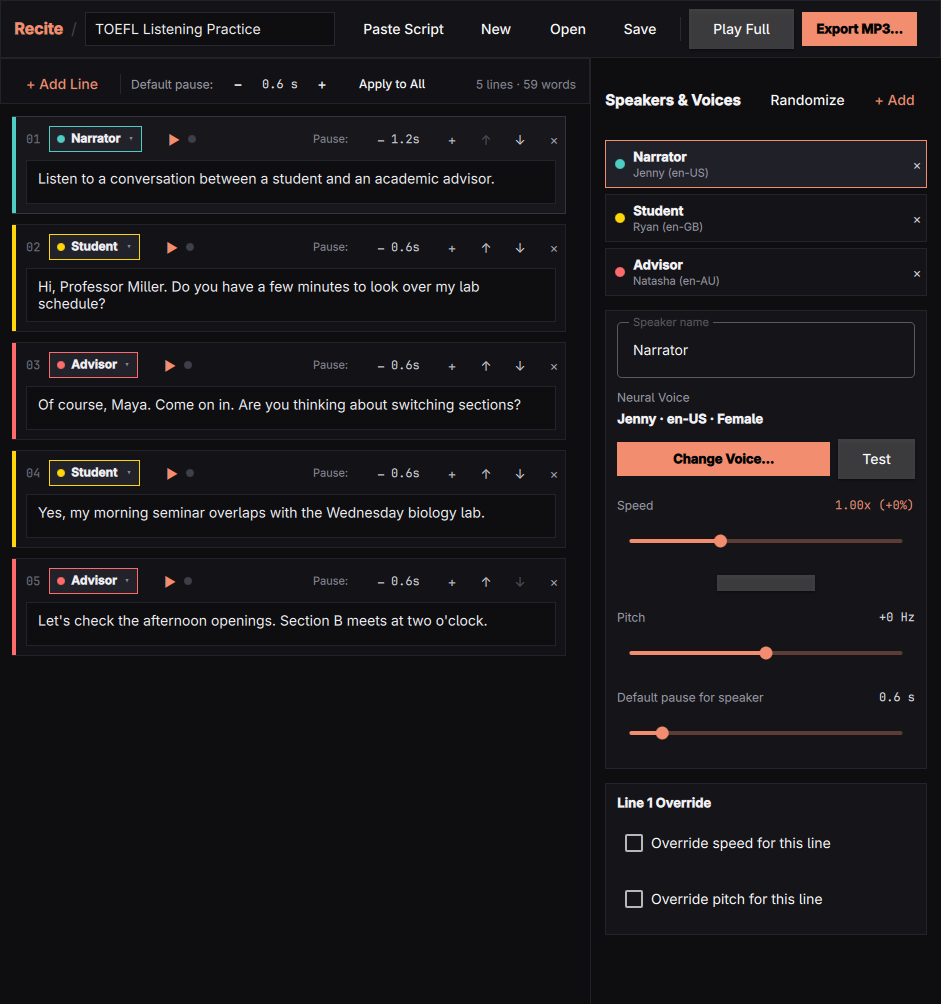
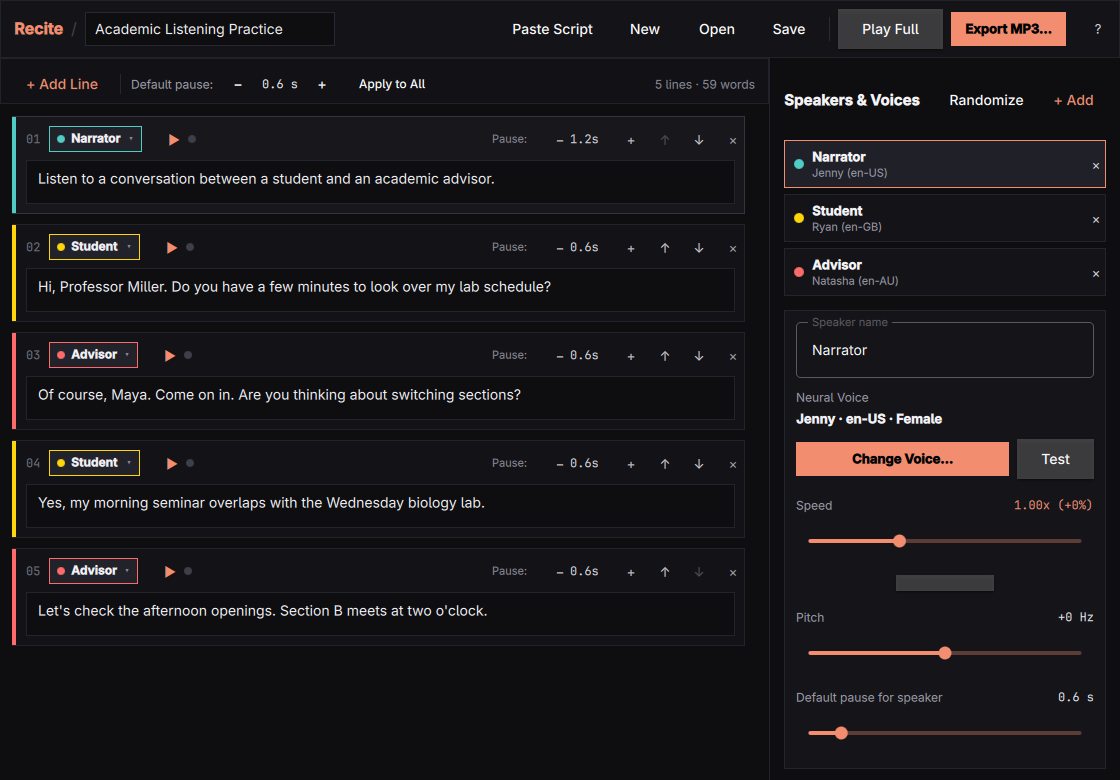
Refine README notices, license holder, and neutral screenshot

diff --git a/README.md b/README.md
@@ -2,7 +2,7 @@
 
 ![Recite](screenshot.png)
 
-Turn audio scripts for **Listening I** and **TOEFL** practice into spoken `.mp3` files using Clipchamp's Microsoft Neural Voices (`edge-tts`) — without copying lines one by one or stitching clips manually in Kdenlive.
+Turn audio scripts for English listening and dialogue practice into spoken `.mp3` files using neural text-to-speech voices (`edge-tts`) — without copying lines one by one or stitching clips manually in Kdenlive.
 
 Built using Vibe Code on Omarchy OS.
 
@@ -10,7 +10,7 @@ Built using Vibe Code on Omarchy OS.
 
 ## Features
 
-- **Same Clipchamp Voices**: Browse, filter, favorite, and audition Microsoft Neural Voices (`Jenny`, `Guy`, `Aria`, `Davis`, `Sonia`, `Ryan`, etc.) across locales and accents.
+- **Neural Voices Across Dialects**: Browse, filter, favorite, and audition English and multilingual neural voices (`Jenny`, `Guy`, `Aria`, `Davis`, `Sonia`, `Ryan`, etc.) across 14+ English locales and accents.
 - **Lectures & Multi-Speaker Dialogues**: Paste raw scripts (`Narrator:`, `Student:`, `Advisor:`, `[pause 1.5s]`) or write line-by-line with automatic speaker voice assignment and one-click dialect randomization across English accents.
 - **Voice, Speed, Pitch & Pauses**: Adjust rate (`-50%` to `+100%`), pitch (`-50Hz` to `+50Hz`), and pause duration per speaker or per line.
 - **Instant Caching & Preview**: Preview individual lines or the full stitched script with live line highlighting.
@@ -99,6 +99,10 @@ Contributions are welcome! To keep the project aligned with its core goals, dire
 
 ---
 
-## License
+## License & Third-Party Notices
 
 This project is licensed under the MIT License. See the [LICENSE](LICENSE) file for details.
+
+- **Adapted Patterns:** Theming, translation, and portal file-picker patterns are adapted from Omacut and Monologue (Copyright © David Heinemeier Hansson, MIT License).
+- **External Dependencies:** Recite invokes system-installed [Qt 6](https://www.qt.io/), [FFmpeg](https://ffmpeg.org/), and the third-party [`edge-tts`](https://github.com/rany2/edge-tts) Python package as external tools rather than bundling them.
+- **Disclaimer:** Recite is an independent open-source project and is not affiliated with, endorsed by, or sponsored by Microsoft. Voice synthesis relies on Microsoft's online Edge Read Aloud service via `edge-tts`; users are responsible for complying with applicable service terms and copyright laws for any scripts they input or audio they distribute.

diff --git a/docs/USER_MANUAL.md b/docs/USER_MANUAL.md
@@ -1,6 +1,6 @@
 # Recite User Manual
 
-Recite turns lecture and dialogue scripts into spoken `.mp3` audio using Microsoft Neural Voices (`edge-tts`)—the same neural voices available in Clipchamp—without copying lines one by one or stitching clips manually.
+Recite turns lecture and dialogue scripts into spoken `.mp3` audio using neural text-to-speech voices (`edge-tts`), without copying lines one by one or stitching clips manually.
 
 ---
 
